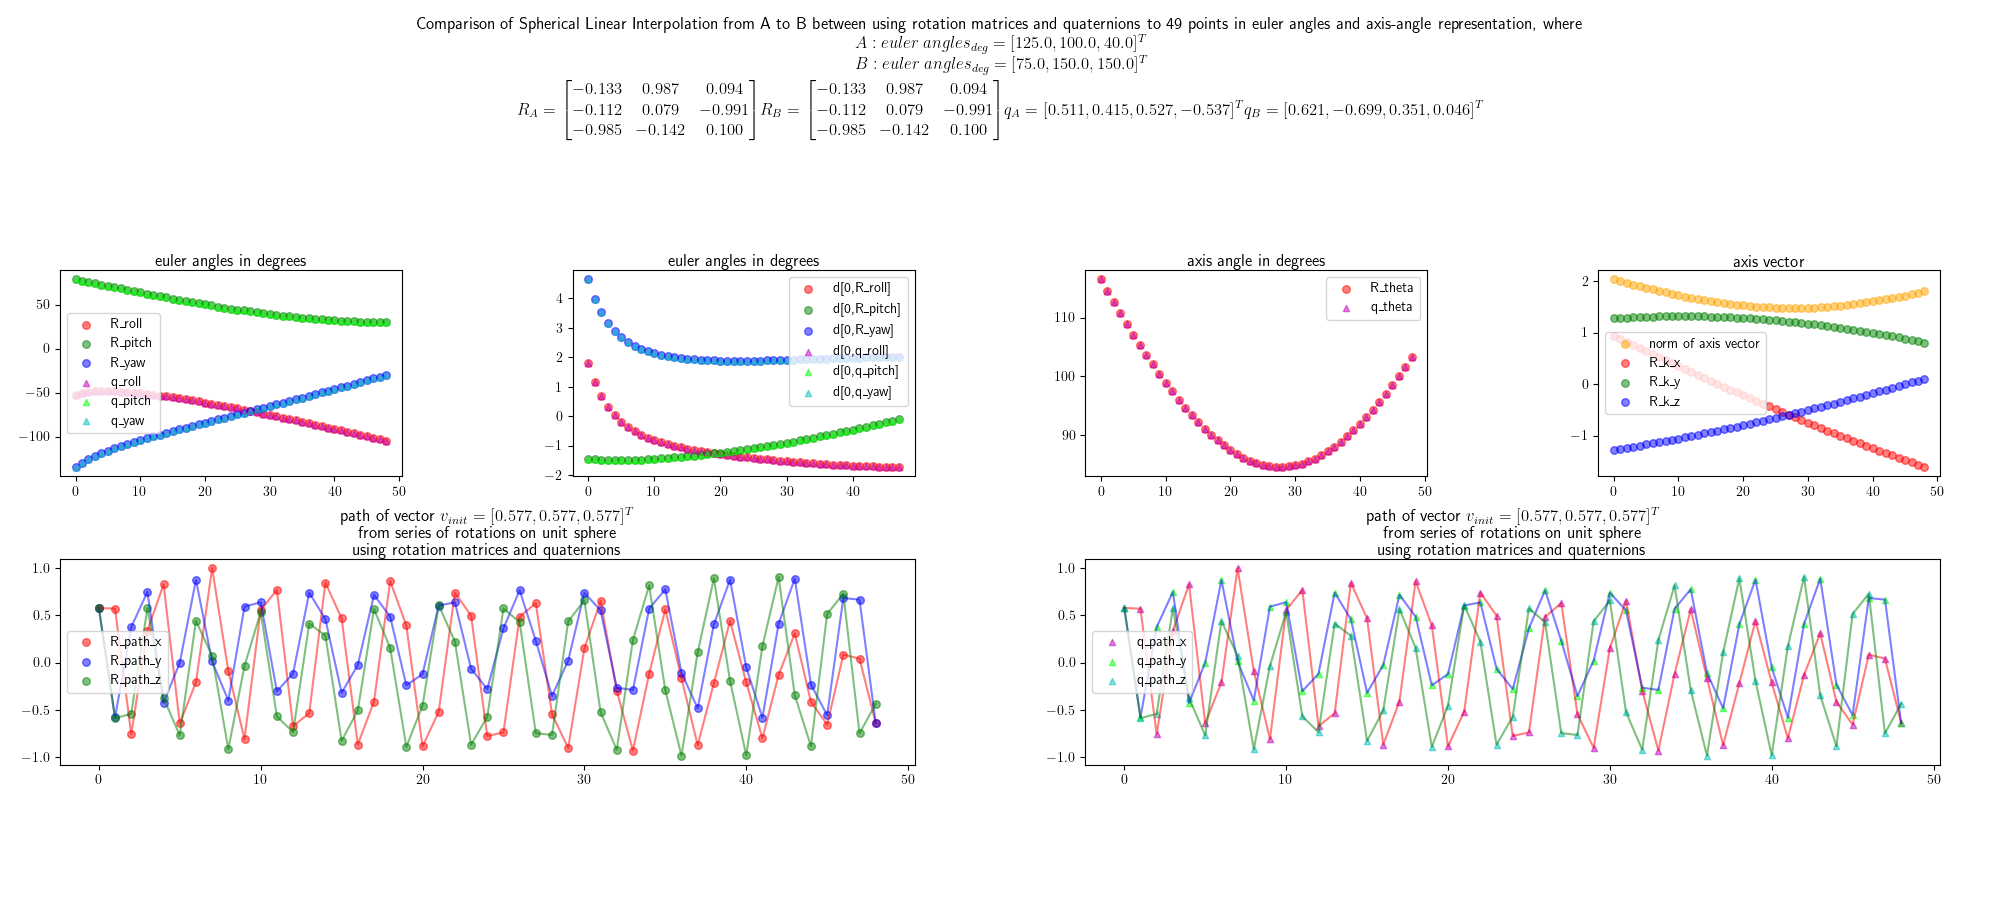
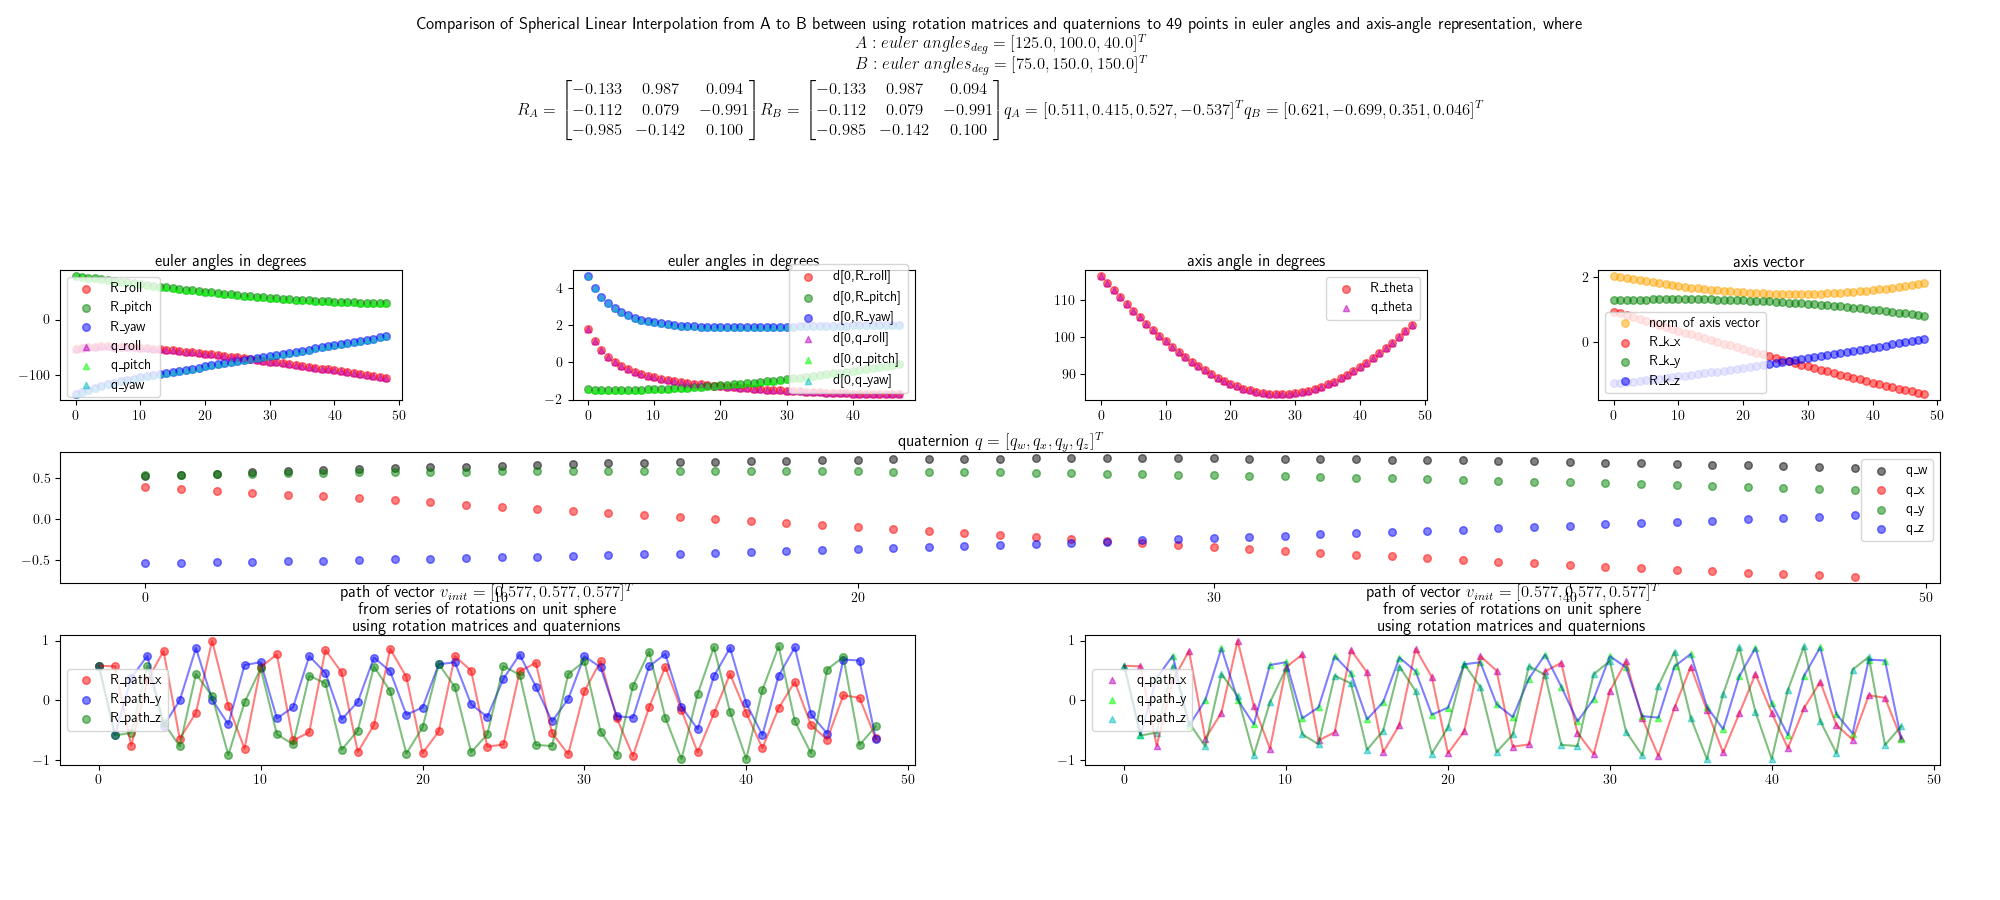
Added the quaternions' components scatter plot in the 2D figures

Changed region(s): [[0.031, 0.28, 0.961, 0.84], [0.713, 0.28, 0.961, 0.5911]]

diff --git a/scripts/visualizer.py b/scripts/visualizer.py
@@ -43,7 +43,7 @@ def visualize(init_conditions: tuple, Rs_interp: list, qs_interp: list, draw_3d:
     path_title = r'path of vector $v_{init} =  [%.3f, %.3f, %.3f]^T$'%(v_init[0], v_init[1], v_init[2])+'\nfrom series of rotations on unit sphere\nusing rotation matrices and quaternions'
     axis_ang_title = 'axis angle vector of the rotations\nfrom slerp using rotations matrices and quaternions'
 
-    f, axs = plt.subplots(2,4,figsize=(20,9))
+    f, axs = plt.subplots(3,4,figsize=(20,9))
     plt.subplots_adjust(left=0.03,bottom=0.15,right=0.97,top=0.7,wspace=0.5,hspace=0.4)
     suptitle = f'Comparison of Spherical Linear Interpolation from A to B between using rotation matrices and quaternions to {len(Rs_interp)} points in euler angles and axis-angle representation, '+'where\n' 
     suptitle += r'$A : euler\ angles_{deg} = [%.1f, %.1f, %.1f]^T$'%(euler_angles_deg1[0], euler_angles_deg1[1], euler_angles_deg1[2])+'\n'
@@ -60,6 +60,7 @@ def visualize(init_conditions: tuple, Rs_interp: list, qs_interp: list, draw_3d:
     R_path, q_path = deepcopy(v_init), deepcopy(v_init)#np.array([1,0,0])
     R_paths_x, R_paths_y, R_paths_z = [],[],[]#R_path[0]], [R_path[1]], [R_path[2]]
     q_paths_x, q_paths_y, q_paths_z = [],[],[]#[q_path[0]], [q_path[1]], [q_path[2]]
+    qs_w, qs_x, qs_y, qs_z = [], [], [], []
     R_rolls, R_pitchs, R_yaws = [], [], []
     q_rolls, q_pitchs, q_yaws = [], [], []
     R_thetas, R_ks_x, R_ks_y, R_ks_z = [], [], [], []
@@ -91,6 +92,10 @@ def visualize(init_conditions: tuple, Rs_interp: list, qs_interp: list, draw_3d:
         R_ks_norm_y.append(k[1]/k_norm)
         R_ks_norm_z.append(k[2]/k_norm)
     for q_interp in qs_interp:
+        qs_w.append(q_interp[0])
+        qs_x.append(q_interp[1])
+        qs_y.append(q_interp[2])
+        qs_z.append(q_interp[3])
         q_interp_R = R_from_q(q_interp)
         q_paths_x.append(q_path[0])
         q_paths_y.append(q_path[1])
@@ -147,7 +152,18 @@ def visualize(init_conditions: tuple, Rs_interp: list, qs_interp: list, draw_3d:
     for ax in axs[1, :]:
         ax.remove()
     gs = axs[1, 2].get_gridspec()
-    ax_b_0 = f.add_subplot(gs[1, :2])
+    ax_b = f.add_subplot(gs[1, :4])
+    ax_b.scatter(idxs, qs_w, c='black', marker='o', s=30, alpha=0.5)
+    ax_b.scatter(idxs, qs_x, c='r', marker='o', s=30, alpha=0.5)
+    ax_b.scatter(idxs, qs_y, c='g', marker='o', s=30, alpha=0.5)
+    ax_b.scatter(idxs, qs_z, c='b', marker='o', s=30, alpha=0.5)
+    ax_b.legend(('q_w','q_x','q_y','q_z'))
+    ax_b.set_title(r'quaternion $q = [q_w, q_x, q_y, q_z]^T$')
+    
+    for ax in axs[2, :]:
+        ax.remove()
+    gs = axs[1, 2].get_gridspec()
+    ax_b_0 = f.add_subplot(gs[2, :2])
     ax_b_0.scatter(idxs_paths, R_paths_x, c='r', marker='o', s=30, alpha=0.5)
     ax_b_0.scatter(idxs_paths, R_paths_y, c='b', marker='o', s=30, alpha=0.5)
     ax_b_0.scatter(idxs_paths, R_paths_z, c='g', marker='o', s=30, alpha=0.5)
@@ -155,9 +171,9 @@ def visualize(init_conditions: tuple, Rs_interp: list, qs_interp: list, draw_3d:
     ax_b_0.plot(idxs_paths, R_paths_y, c='b', alpha=0.5)
     ax_b_0.plot(idxs_paths, R_paths_z, c='g', alpha=0.5)
     ax_b_0.legend(('R_path_x','R_path_y','R_path_z'))
-    ax_b_0.set_title(path_title)#r'path of vector $v_{init} =  [1,0,0]^T$ from series of rotations on unit sphere using rotation matrices')
+    ax_b_0.set_title(path_title)
     
-    ax_b_1 = f.add_subplot(gs[1, 2:])
+    ax_b_1 = f.add_subplot(gs[2, 2:])
     ax_b_1.scatter(idxs_paths, q_paths_x, c='m', marker='^', s=20, alpha=0.5)
     ax_b_1.scatter(idxs_paths, q_paths_y, c='lime', marker='^', s=20, alpha=0.5)
     ax_b_1.scatter(idxs_paths, q_paths_z, c='c', marker='^', s=20, alpha=0.5)
@@ -166,12 +182,9 @@ def visualize(init_conditions: tuple, Rs_interp: list, qs_interp: list, draw_3d:
     ax_b_1.plot(idxs_paths, q_paths_z, c='g', alpha=0.5)
 
     ax_b_1.legend(('q_path_x','q_path_y','q_path_z'))
-    ax_b_1.set_title(path_title)#r'path of vector $v_{init} =  [1,0,0]^T$ from series of rotations on unit sphere using quaternions')
-
+    ax_b_1.set_title(path_title)
 
     plt.savefig(f'R_q_slerp_comparison_{fig_idx}.png')
-
-
 
     '''
     ax[2].plot(idxs_metrics, geodesic_metrics, c='r')
@@ -254,6 +267,8 @@ def main():
     v_init = np.array([1,1,1])
     v_init = v_init / np.linalg.norm(v_init)
     for (i, (euler_angles_deg1, euler_angles_deg2, n_interp)) in enumerate(zip(euler_angles_deg1_s, euler_angles_deg2_s, n_interps)):
+        print(f'\n\nCase #{i}')
+        print(f'euler_angles_deg1 : {euler_angles_deg1}\neuler_angles_deg2 : {euler_angles_deg2}\nn_interp : {n_interp}\nv_init :\n{v_init}')
         compute_and_visualize(euler_angles_deg1, euler_angles_deg2, n_interp, v_init, draw_3d, i)
     plt.show()
 

diff --git a/src/main.cpp b/src/main.cpp
@@ -47,13 +47,17 @@ int main(int argc, char *argv[]) {
 	std::cout<<"euler rad 1 :\n"<<euler_angles_rad1<<"\n";
 	q_from_euler_angles_rad(euler_angles_rad1, q1);
 	q_from_euler_angles_rad(euler_angles_rad2, q2);
-	std::vector<Quat> Qs_interp;
+	std::vector<Quat> Qs_interp_direct, Qs_interp_exp_and_log;
 
-	int n_steps = 30;
-	slerp_q_direct(q1, q2, n_steps, Qs_interp);
+	int n_steps = 50;
+	slerp_q_direct(q1, q2, n_steps, Qs_interp_direct);
+	slerp_q_exp_and_log(q1, q2, n_steps, Qs_interp_exp_and_log);
 	std::cout<<"q1 :\n"<<q1<<"\n";
 	std::cout<<"q2 :\n"<<q2<<"\n";
-	print_vector(Qs_interp);
+	// RETURNED ALL TRUE
+	compare_vectors(Qs_interp_direct, Qs_interp_exp_and_log);
+	//print_vector(Qs_interp);
+	
 
 	return 0;
 }

diff --git a/include/cpp_utility.hpp b/include/cpp_utility.hpp
@@ -1,4 +1,8 @@
+#ifndef CPP_UTILITY_HPP
+#define CPP_UTILITY_HPP
+
 #include <vector>
+#include <limits>
 #include <iostream>
 
 template<typename T>
@@ -11,4 +15,16 @@ void print_vector(const std::vector<T> &__vec) {
 	}
 }
 
+template <typename T>
+void compare_vectors(const std::vector<T> &__vec0, const std::vector<T> &__vec1) {
+	if (!__vec0.size() || !__vec1.size())
+		std::cerr<<"compare_vector() : Empty vector\n";
+	if (__vec0.size() != __vec1.size())
+		std::cerr<<"compare_vector() : Different size of vectors\n";
+	std::cout<<"Comparing vector :\n";
+	for (int i=0; i<__vec0.size(); i++) {
+		std::cout<<"i : "<<i<<" : "<<__vec0[i].isApprox(__vec1[i])<<"\n";
+	}
+}
 
+#endif

diff --git a/include/slerp.hpp b/include/slerp.hpp
@@ -37,7 +37,20 @@ void slerp_q_direct(const Quat &__q1, const Quat &__q2, int __n_steps, std::vect
 		quaternion_power(q1_inv_q2, lambda, q_p);
 		Qs_interp__.push_back(__q1*q_p);
 	}
+}
 
+void slerp_q_exp_and_log(const Quat &__q1, const Quat &__q2, int __n_steps, std::vector<Quat> &Qs_interp__) {
+	if (Qs_interp__.size())
+		Qs_interp__.clear();
+	Quat q1_inv_q2 = __q1.inverse()*__q2;
+	Vec3f k_log;
+	log_map_from_SU2_to_so3(q1_inv_q2, k_log);
+	for (int i=1; i<__n_steps; i++) {
+		float lambda = 1.0f * static_cast<float>(i) / static_cast<float>(__n_steps-1);
+		Quat q_exp;
+		exp_map_from_so3_to_SU2(lambda*k_log, q_exp);
+		Qs_interp__.push_back(__q1*q_exp);
+	}
 }
 
 #endif

diff --git a/include/conversion.hpp b/include/conversion.hpp
@@ -59,5 +59,4 @@ void q_from_euler_angles_rad(const Vec3f &__euler_angles_rad, Quat &q__) {
 	q__ = Quat(c_x*c_y*c_z + s_x*s_y*s_z, s_x*c_y*c_z - c_x*s_y*s_z, c_x*s_y*c_z + s_x*c_y*s_z,  c_x*c_y*s_z - s_x*s_y*c_z);
 }
 
-
 #endif
